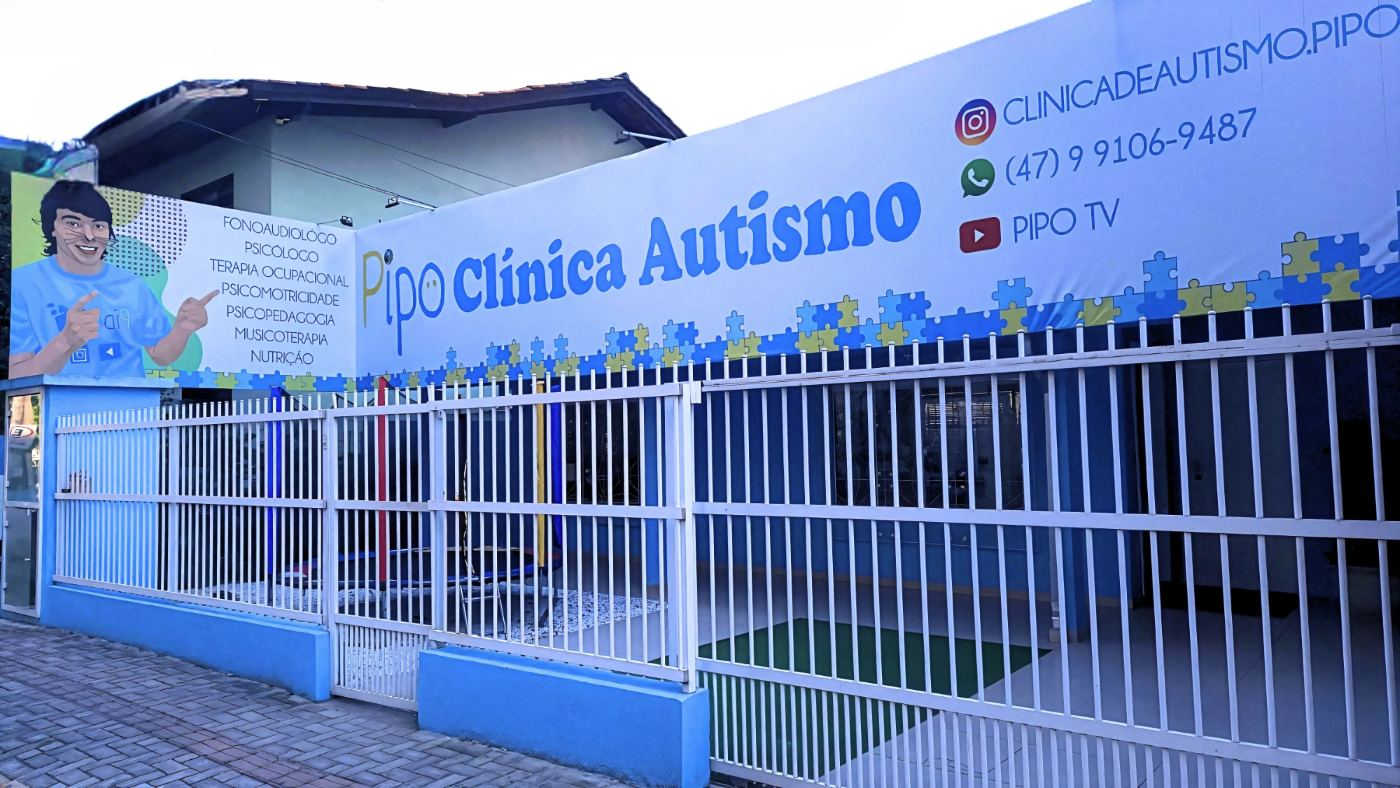
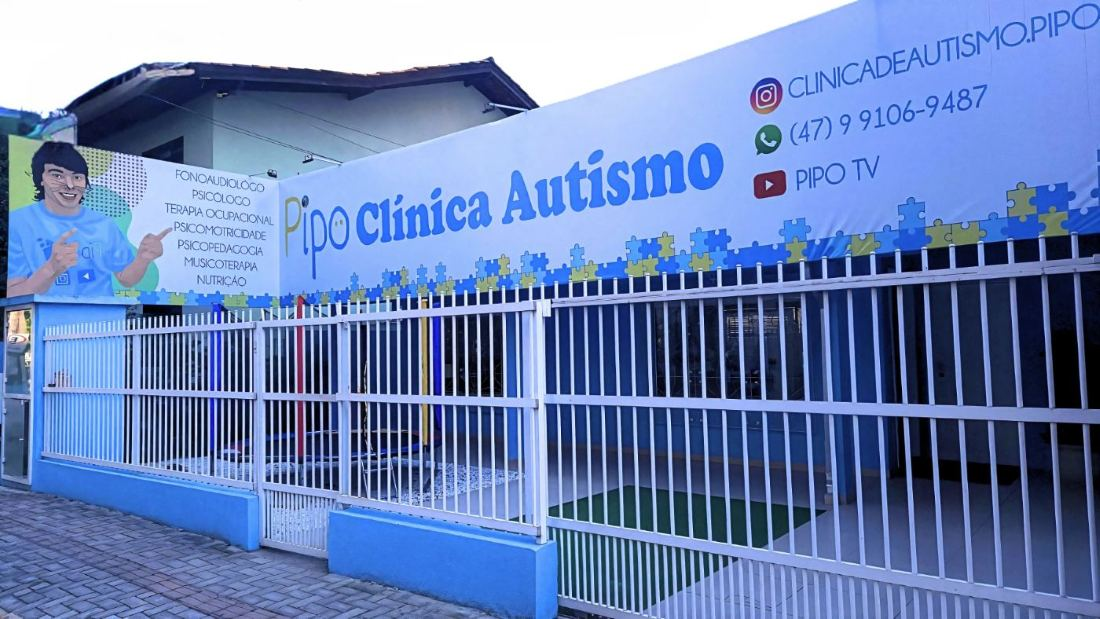
Otimização de performance: remove arquivos órfãos, comprime imagens e limpa CSS morto
Sem alterações visuais ou funcionais — apenas limpeza e otimização.

- Remove 5 arquivos de assets/ sem nenhuma referência no site (~309KB):
  logo-pipo-branco-vertical.png, logo-pipo-cor-vertical.png,
  mascote-contorno.png, pipo-placeholder.svg, og-image.jpg (versão
  antiga, substituída por og-image-preview.jpg)
- Recomprime 8 fotos pesadas (~868KB economizados, ~58% de redução):
  as 6 fotos da galeria de Itapema usadas só como miniatura 4:3 foram
  recortadas no mesmo enquadramento que o CSS já aplica via
  object-fit:cover (mesmo resultado visual, sem os pixels que já eram
  cortados) e redimensionadas para o tamanho real de exibição; as fotos
  de fachada (usadas em mais contextos, incluindo og:image) foram só
  redimensionadas/recomprimidas, sem recorte
- Remove 10 seletores CSS confirmados sem nenhum uso em HTML ou JS:
  .aba-cta-wrap, .btn-deep-orange, .convenio-logo-fallback, .coord-tag,
  .coord-tags, .modpage-photo.is-placeholder, .modalidades-eyebrow,
  .modalidades-subtitle, .text-blue, .unidade-gallery-placeholder

diff --git a/css/styles.css b/css/styles.css
@@ -88,7 +88,6 @@ iframe { border: 0; }
 .eyebrow-orange { color: var(--orange); }
 .eyebrow-yellow { color: var(--yellow); }
 
-.text-blue { color: var(--blue); }
 .text-yellow { color: var(--yellow); }
 
 .dots-pattern {
@@ -128,7 +127,6 @@ iframe { border: 0; }
 .btn-blue { background: var(--blue); color: #fff; }
 .btn-yellow { background: var(--yellow); color: var(--navy); }
 .btn-white { background: #fff; color: var(--navy); }
-.btn-deep-orange { background: var(--deep-orange); color: #fff; }
 
 /* =========================================================
    Cabeçalho / Hero
@@ -713,9 +711,7 @@ body.is-menu-open .mobile-menu-overlay {
 @media (max-width: 767px) { .modalidades-glow { right: -8rem; top: -8rem; } }
 
 .modalidades-intro { position: relative; max-width: 38rem; margin: 0 auto; text-align: center; }
-.modalidades-eyebrow { display: inline-flex; align-items: center; gap: 0.5rem; padding: 0.4rem 1rem; border-radius: 999px; background: rgba(255,204,0,0.16); color: var(--yellow); font-weight: 800; font-size: 0.8rem; letter-spacing: 0.08em; text-transform: uppercase; }
 .modalidades-heading { margin: 1rem 0 0; font-family: var(--font-display); font-weight: 800; font-size: clamp(25px, 4vw, 2.1rem); white-space: nowrap; color: #fff; }
-.modalidades-subtitle { margin: 0.9rem 0 0; font-size: 1.0625rem; line-height: 1.6; color: rgba(185,198,214,1); }
 
 .modalidades-grid2 { position: relative; margin-top: 3rem; display: grid; grid-template-columns: 1fr; gap: 1rem; }
 @media (min-width: 480px) { .modalidades-grid2 { grid-template-columns: repeat(2, 1fr); } }
@@ -835,7 +831,6 @@ body.modalidade-modal-open { overflow: hidden; }
 .aba-card-title { font-family: var(--font-display); font-size: 1.375rem; font-weight: 700; color: var(--navy); }
 .aba-card-desc { font-size: 0.9375rem; line-height: 1.6; color: var(--text-slate-2); }
 
-.aba-cta-wrap { position: relative; margin-top: 3rem; text-align: center; }
 
 /* =========================================================
    Diferenciais
@@ -866,8 +861,6 @@ body.modalidade-modal-open { overflow: hidden; }
 @media (min-width: 768px) { .coord-inner { padding: 0 2.5rem; } }
 .coord-title { font-family: var(--font-display); margin-top: 0.75rem; font-size: 40px; line-height: normal; font-weight: 800; color: #fff; }
 .coord-desc { margin-top: 1rem; font-size: 1.125rem; color: rgba(255,255,255,0.8); }
-.coord-tags { margin-top: 1.75rem; display: flex; flex-wrap: wrap; justify-content: center; gap: 0.75rem; }
-.coord-tag { border-radius: 999px; background: var(--blue); padding: 0.5rem 1.25rem; font-size: 0.875rem; font-weight: 800; color: #fff; }
 
 .coord-section .eyebrow { font-size: 16px; }
 @media (min-width: 768px) { .coord-section .eyebrow { font-size: 20px; } }
@@ -905,7 +898,6 @@ body.modalidade-modal-open { overflow: hidden; }
    ========================================================= */
 .convenio-logo { display: flex; height: 3.25rem; width: 3.25rem; flex-shrink: 0; align-items: center; justify-content: center; overflow: hidden; border-radius: 0.65rem; background: #fff; border: 1px solid rgba(11,34,57,0.08); }
 .convenio-logo img { height: 100%; width: 100%; object-fit: contain; padding: 0.2rem; }
-.convenio-logo-fallback { font-family: var(--font-display); font-size: 0.7rem; font-weight: 800; color: #fff; text-align: center; line-height: 1; border: none; }
 .convenio-name { font-size: 0.9375rem; font-weight: 700; line-height: 1.25; color: var(--navy); }
 
 /* Carrossel de planos e convênios (logo abaixo da faixa azul do hero) */
@@ -1060,9 +1052,6 @@ body.modalidade-modal-open { overflow: hidden; }
 .unidade-gallery img { aspect-ratio: 4 / 3; width: 100%; object-fit: cover; border-radius: 0.85rem; box-shadow: 0 10px 22px -16px rgba(11,34,57,0.5); transition: transform 0.25s ease; cursor: pointer; }
 .unidade-gallery img:hover { transform: scale(1.03); }
 .unidade-gallery img:first-child { grid-column: span 2; grid-row: span 2; aspect-ratio: 4 / 3; }
-.unidade-gallery-placeholder { margin-top: 1.5rem; display: flex; flex-direction: column; align-items: center; justify-content: center; gap: 0.5rem; min-height: 12rem; border-radius: 1rem; border: 2px dashed rgba(11,34,57,0.15); background: rgba(11,34,57,0.03); padding: 2rem 1.5rem; text-align: center; }
-.unidade-gallery-placeholder .icon { color: rgba(11,34,57,0.25); }
-.unidade-gallery-placeholder p { font-size: 0.9375rem; font-weight: 700; color: var(--text-slate-2); }
 .unidade-details-btn { margin-top: 1.5rem; align-self: flex-start; }
 @media (max-width: 639px) { .unidades-gallery img:first-child { grid-column: span 2; grid-row: span 1; aspect-ratio: 4 / 3; } }
 
@@ -1220,9 +1209,6 @@ body.gallery-lightbox-open { overflow: hidden; }
 
 .modpage-photo { position: relative; border-radius: 1.75rem; overflow: hidden; aspect-ratio: 4 / 3; }
 .modpage-photo img { width: 100%; height: 100%; object-fit: cover; display: block; }
-.modpage-photo.is-placeholder { display: flex; flex-direction: column; align-items: center; justify-content: center; gap: 0.5rem; background: rgba(11,34,57,0.04); border: 2px dashed rgba(11,34,57,0.15); color: var(--text-slate-2); }
-.modpage-photo.is-placeholder .icon { color: rgba(11,34,57,0.25); }
-.modpage-photo.is-placeholder p { font-size: 0.9375rem; font-weight: 700; }
 .modpage-photo-icon { position: absolute; left: 1.25rem; bottom: 1.25rem; display: inline-flex; align-items: center; justify-content: center; height: 3.5rem; width: 3.5rem; border-radius: 1rem; color: #fff; box-shadow: 0 10px 24px -8px rgba(0,0,0,0.45); }
 
 .modpage-eyebrow { display: inline-flex; align-items: center; gap: 0.5rem; padding: 0.4rem 1rem; border-radius: 999px; font-weight: 800; font-size: 0.78rem; letter-spacing: 0.1em; text-transform: uppercase; }
